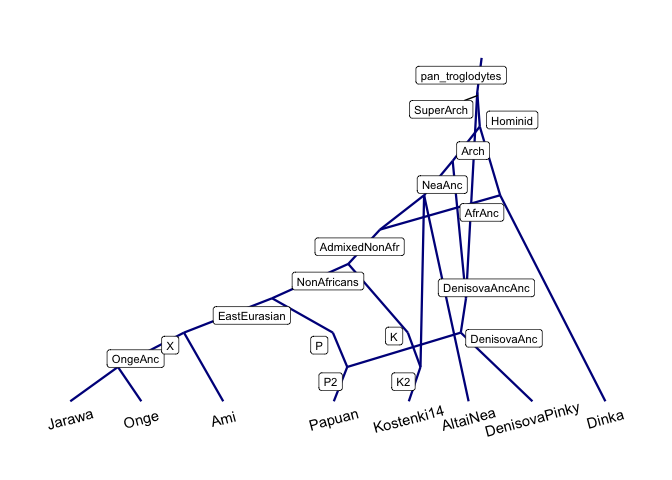
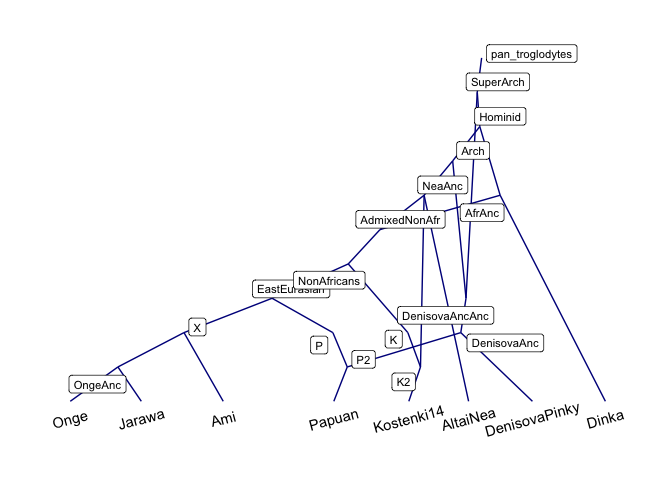
Added function for displaying admixture proportions or variables. Resolves #14.

diff --git a/src/graph.cpp b/src/graph.cpp
@@ -289,32 +289,47 @@ DataFrame Graph::get_node_positions() const
         x[i] = n.get_x();
         y[i] = n.get_y();
     }
-    return DataFrame::create(Named("label") = label,
-                             Named("x") = x, Named("y") = y,
-                             Named("stringsAsFactors") = false);
+    DataFrame df =
+        DataFrame::create(Named("label") = label,
+                          Named("x") = x, Named("y") = y,
+                          _["stringsAsFactors"] = false);
+    df.attr("row.names") = label;
+    return df;
 }
 
 DataFrame Graph::get_ggraph_nodes() const
 {
     CharacterVector node_names(get_node_names());
-    return DataFrame::create(Named("label") = node_names,
-                             Named("is_leaf") = get_leaf_status(),
-                             Named("stringsAsFactors") = false);
+    DataFrame df =
+        DataFrame::create(Named("label") = node_names,
+                          Named("is_leaf") = get_leaf_status(),
+                          Named("stringsAsFactors") = false);
+    df.attr("rown.names") = node_names;
+    return df;
 }
 
 DataFrame Graph::get_ggraph_edges() const
 {
     CharacterVector from(edges.size()), to(edges.size());
+    CharacterVector edge_id(edges.size());
+    LogicalVector admixture_edge(edges.size()); // FIXME: remember vars
     for (int i = 0; i < edges.size(); ++i) {
         std::pair<unsigned int,unsigned int> edge = edges[i];
         const Node &parent = nodes[edge.first];
         const Node &child = nodes[edge.second];
         from[i] = parent.name;
         to[i] = child.name;
+        edge_id[i] = parent.name + "_" + child.name;
+        admixture_edge[i] = child.is_admixed();
     }
-    return DataFrame::create(Named("from") = from,
-                             Named("to") = to,
-                             Named("stringsAsFactors") = false);
+    DataFrame df =
+        DataFrame::create(Named("from") = from,
+                          Named("to") = to,
+                          Named("edge.id") = edge_id,
+                          Named("admixed") = admixture_edge,
+                          _["stringsAsFactors"] = false);
+    df.attr("row.names") = edge_id;
+    return df;
 }
 
 

diff --git a/src/graph.h b/src/graph.h
@@ -27,8 +27,9 @@ public:
     void set_x(double new_x) { x = new_x; }
     void reset()             { dist_to_leaf = -1; x = -1; }
 
-    bool is_leaf() const { return children.empty(); }
-    bool is_root() const { return parents.empty(); }
+    bool is_leaf()    const { return children.empty(); }
+    bool is_root()    const { return parents.empty(); }
+    bool is_admixed() const { return parents.size() > 1; }
 };
 
 class Graph {

diff --git a/README.md b/README.md
@@ -7,7 +7,7 @@
 [![lifecycle](http://img.shields.io/badge/lifecycle-experimental-orange.svg)](https://www.tidyverse.org/lifecycle/#experimental)
 [![Project Status:
 Active](http://www.repostatus.org/badges/latest/active.svg)](http://www.repostatus.org/#active)
-[![Last-changedate](https://img.shields.io/badge/last%20change-2018--05--09-green.svg)](/commits/master)
+[![Last-changedate](https://img.shields.io/badge/last%20change-2018--05--10-green.svg)](/commits/master)
 [![packageversion](https://img.shields.io/badge/Package%20version-0.0.0.9000-orange.svg?style=flat-square)](commits/master)
 [![Travis build
 status](https://travis-ci.org/mailund/adrift.svg?branch=master)](https://travis-ci.org/mailund/adrift)
@@ -80,3 +80,39 @@ graph %>%
 ```
 
 <img src="man/figures/README-unnamed-chunk-3-1.png" width="100%" />
+
+``` r
+graph <- parse_qpgraph(readr::read_file("data-raw/Basic_OngeEA_wArch.graph"))
+plt <- graph %>%
+    make_graph_plot(
+        ggplot2::aes(filter = !admixed),
+        edge_colour = "darkblue"
+    ) %>%
+    show_leaf_labels(nudge_y = -0.5, angle = 15)
+
+admixture_vars <- c(
+    "P_P2" = "alpha",
+    "K_K2" = "beta",
+    "AfrAnc_AdmixedNonAfr" = "gamma",
+    "SuperArch_DenisovaAncAnc" = "delta"
+)
+plt %>% add_admixture_labels(
+    admixture_vars,
+    linetype = "dotted",
+    colour = "darkred"
+)
+```
+
+<img src="man/figures/README-unnamed-chunk-4-1.png" width="100%" />
+
+``` r
+
+plt %>% add_admixture_labels(
+    attr(graph, "admixture_proportions"),
+    label_size = 3,
+    linetype = "dashed",
+    colour = "darkgray"
+)
+```
+
+<img src="man/figures/README-unnamed-chunk-4-2.png" width="100%" />
